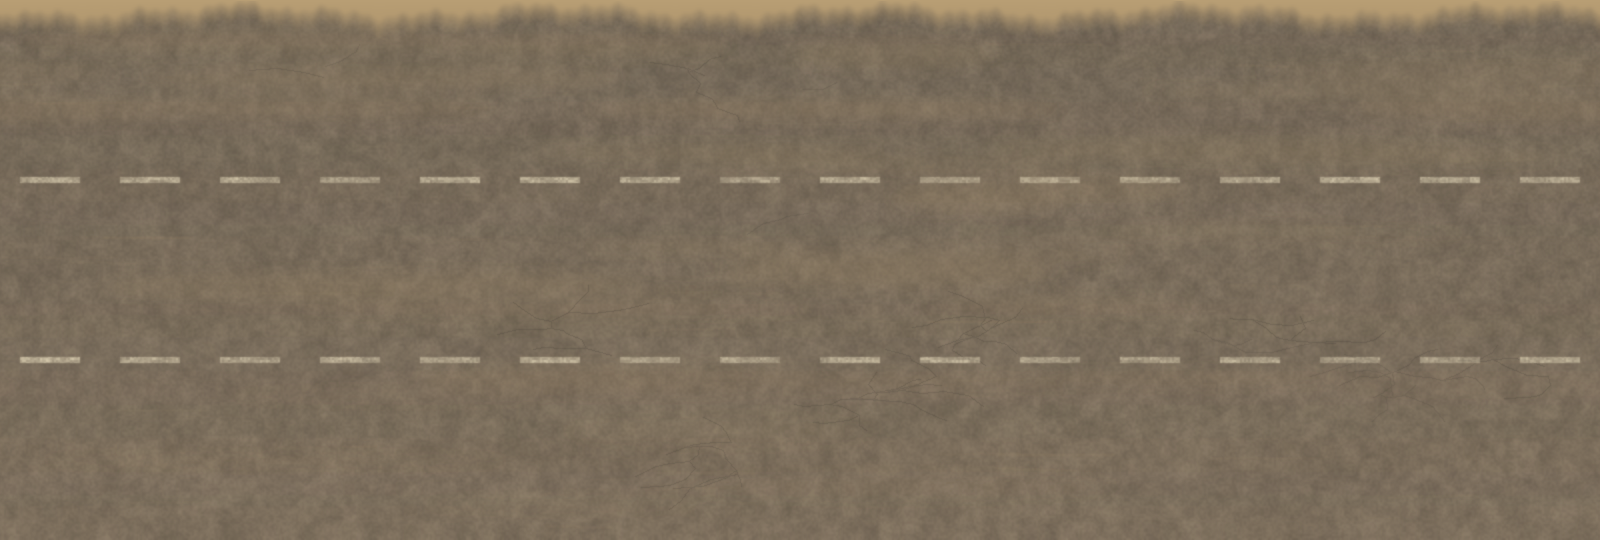
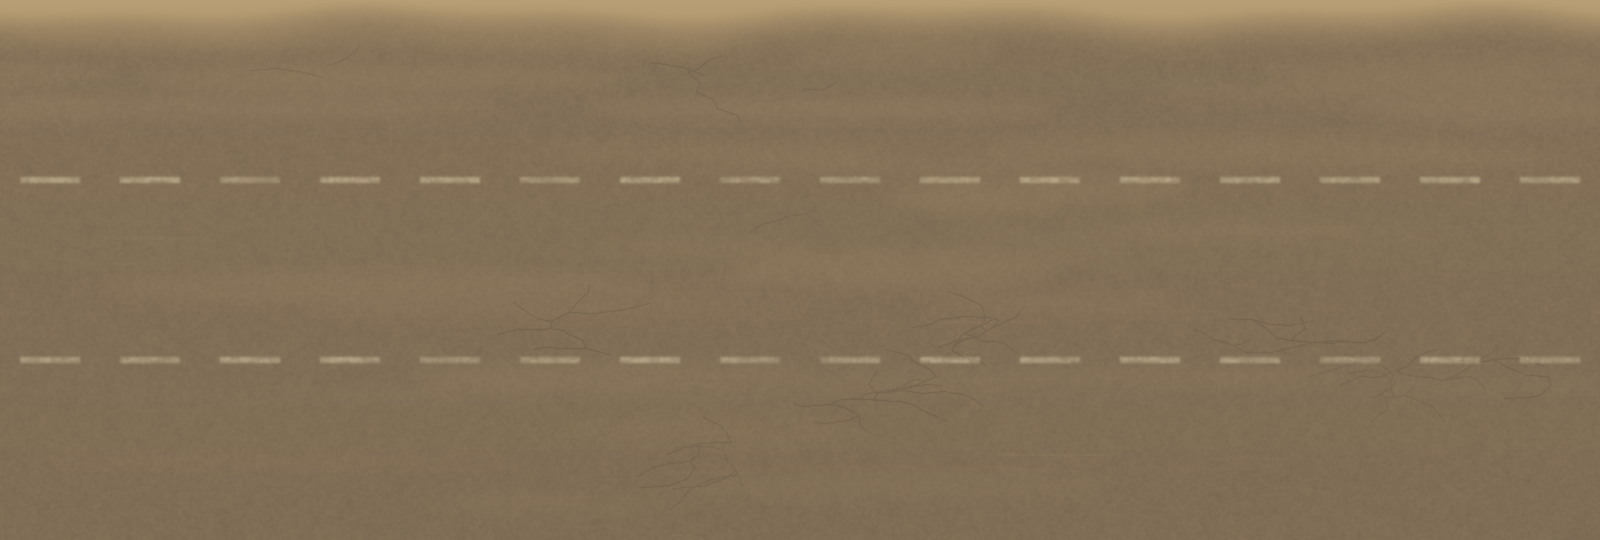
fix: desert road

diff --git a/src/config/sceneryThemes.js b/src/config/sceneryThemes.js
@@ -30,7 +30,7 @@ export const SCENERY_THEMES = {
     road: { key: 'road-desert', file: 'assets/bg/road-desert.png' },
     scenery: { key: 'scenery-desert', file: 'assets/bg/scenery-desert.png' },
     sky: 0x8f8973,
-    ground: 0x7d6f5d,
+    ground: 0x7f6d55,
   },
 };
 

diff --git a/tools/gen-desert-assets.py b/tools/gen-desert-assets.py
@@ -55,13 +55,13 @@ OUT = night.OUT
 
 # ---------------------------------------------------------------- road
 # dusty warm-grey asphalt, mid value so a 30% black shadow still reads
-ROAD_TOP = (118, 106, 90)
-ROAD_BOTTOM = (126, 112, 94)
+ROAD_TOP = (132, 113, 88)
+ROAD_BOTTOM = (128, 110, 86)
 SAND_ROAD = (172, 146, 106)     # drifted sand over the asphalt
 SHOULDER_H = 16                 # sandy shoulder band at the top of the road
 SHOULDER_LIP = (184, 158, 116)  # road row 0 == scenery last row
 
-PAINT = (222, 210, 180)
+PAINT = (214, 198, 164)
 LINE_THICK = 6
 DASH_PERIOD = 100  # divides W
 DASH_LEN = 60
@@ -105,7 +105,8 @@ def make_road():
     road = vgradient(W, ROAD_H, ROAD_TOP, ROAD_BOTTOM).convert("RGB")
 
     # soft aggregate grain, overlay-blended: texture, never speckle
-    for block, strength, seed in ((2, 0.18, 201), (8, 0.16, 202), (20, 0.12, 203)):
+    # faint fine grain only: the AI backdrop is smooth, so coarse mottling read as fur
+    for block, strength, seed in ((2, 0.10, 201), (8, 0.04, 202)):
         n = noise_gray(W, ROAD_H, block, seed).point(lambda v: 128 + (v - 128) // 3)
         n = wrap_blur(n.convert("RGB"), 1.0 if block <= 2 else 2.4)
         road = Image.blend(road, ImageChops.overlay(road, n), strength)
@@ -177,11 +178,11 @@ def make_road():
         y = i * LANE_H
         for x0 in range(start, W, DASH_PERIOD):
             pd.rectangle([x0, y - LINE_THICK // 2, x0 + DASH_LEN - 1, y + LINE_THICK // 2 - 1],
-                         fill=r.randrange(150, 205))
+                         fill=r.randrange(130, 175))
     wear = noise_gray(W, ROAD_H, 2, 261).point(lambda v: 130 + v * 125 // 255)
     wear2 = noise_gray(W, ROAD_H, 10, 262).point(lambda v: 150 + v * 105 // 255)
     paint = ImageChops.multiply(ImageChops.multiply(paint, wear), wear2)
-    paint = wrap_blur(paint.point(lambda v: min(255, v * 255 // 210)), 0.8)
+    paint = wrap_blur(paint.point(lambda v: min(255, v * 255 // 210)), 1.2)
     layer = Image.new("RGBA", (W, ROAD_H), PAINT + (0,))
     layer.putalpha(paint)
     road = over(road, layer)
@@ -189,16 +190,16 @@ def make_road():
     # sandy shoulder: solid sand at row 0 fading into the asphalt, ragged edge
     shoulder = Image.new("RGBA", (W, ROAD_H), SAND_ROAD + (0,))
     sd = ImageDraw.Draw(shoulder)
-    edge = [SHOULDER_H + 5 * math.sin(2 * math.pi * 5 * x / W) + 3 * math.sin(2 * math.pi * 17 * x / W + 1.3)
-            + 2 * math.sin(2 * math.pi * 43 * x / W + 0.4) + 1.5 * math.sin(2 * math.pi * 97 * x / W + 2.1)
+    # smooth low-frequency edge: high-frequency raggedness read as a grass fringe
+    edge = [SHOULDER_H + 5 * math.sin(2 * math.pi * 3 * x / W) + 3 * math.sin(2 * math.pi * 7 * x / W + 1.3)
             for x in range(W)]
     for x in range(W):
         e = edge[x]
-        for y in range(int(e) + 16):
-            t = y / (e + 16)
-            a = 255 if y < e - 8 else int(255 * max(0.0, 1 - (y - (e - 8)) / 22) ** 1.2)
+        for y in range(int(e) + 40):
+            t = y / (e + 40)
+            a = 255 if y < e - 8 else int(255 * max(0.0, 1 - (y - (e - 8)) / 48) ** 1.6)
             sd.point((x, y), fill=lerp(SHOULDER_LIP, SAND_ROAD, t) + (a,))
-    shoulder = wrap_blur(shoulder, 1.4)
+    shoulder = wrap_blur(shoulder, 3.0)
     road = over(road, shoulder)
     # row 0 exactly the lip colour so the horizon has no step
     ImageDraw.Draw(road).line([(0, 0), (W, 0)], fill=SHOULDER_LIP + (255,))

diff --git a/docs/image-assets.md b/docs/image-assets.md
@@ -409,9 +409,11 @@ The `desert` theme (stage 3 from 53156 ms) is made in two steps, like
 `suburbDay`. `tools/gen-desert-assets.py`
 (`uv run --with pillow python tools/gen-desert-assets.py [--preview DIR]`)
 draws the procedural road `road-desert.png` (an old sun-bleached dusty-brown
-highway with sand drifting over it, a sandy shoulder in the top rows — row 0 is
-the scenery's horizon colour 0xb89e74 — and faded dashed dividers at
-y = 180 / 360) and a **layout drawing** of the scenery (written only to
+highway warmed toward the sand's hue, with sand drifting over it, a sandy
+shoulder with a smooth, long soft fade in the top rows — row 0 is the scenery's
+horizon colour 0xb89e74 — and soft faded dashed dividers at y = 180 / 360; only
+faint fine grain, since coarse mottling and a ragged shoulder edge read as fur /
+a grass fringe against the smooth AI backdrop) and a **layout drawing** of the scenery (written only to
 `DIR/scenery-full.png`, never shipped): a low brown-grey dust sky, three layers
 of skewed dunes fading into the haze with shaded lee faces, sparse scrub and a
 bleached skull on the foreground sand. Every blurred layer's transparent pixels
